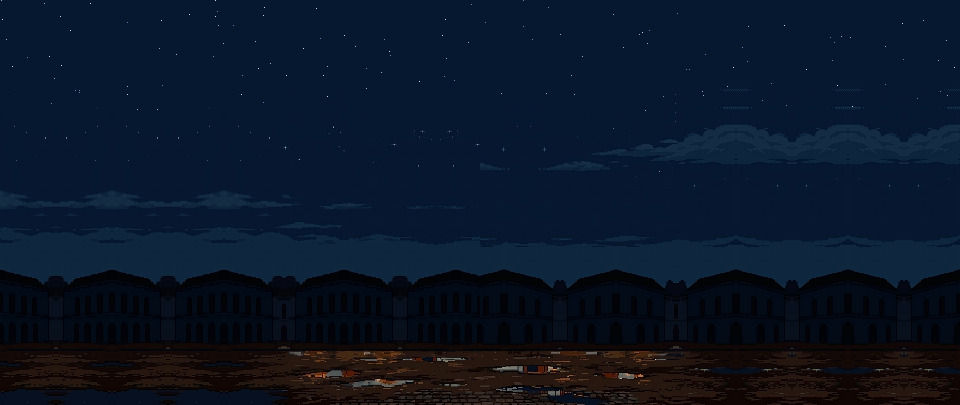
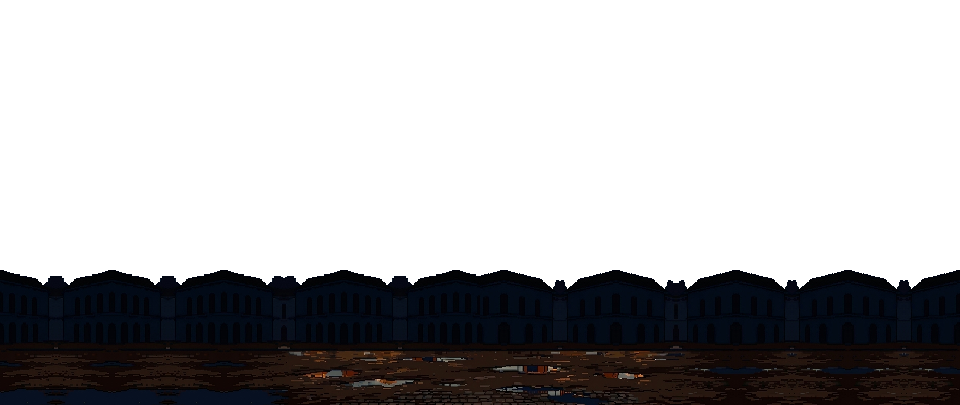
Hold the title's Cabildo still, and give it a 3D night sky behind the painted houses: stars twinkling and clouds high over the plaza, in perspective, drifting very slowly

diff --git a/src/three/sky.ts b/src/three/sky.ts
@@ -1,0 +1,119 @@
+import * as THREE from 'three';
+
+// The title's night sky, in 3D: a dome darkening from the horizon up, its stars twinkling, and a
+// layer of clouds high over the plaza, seen in perspective from down in it (big and quick
+// overhead, small and slow toward the horizon) as the wind takes them, very slowly. Drawn in the
+// flat tones the painting's sky was drawn in, its gradient in steps: a picture made of pixels.
+// Colours are written as they are to be shown (the shaders here are not converted).
+
+/** How high the clouds are, how big, how fast the wind takes them (units a second), and how far off they fade. */
+const CLOUDS = { high: 1800, size: 2600, wind: new THREE.Vector2(22, 6), fade: [18000, 60000] };
+
+const DOME_VERTEX = /* glsl */ `
+  varying vec3 vDir;
+  void main() {
+    vDir = normalize((modelMatrix * vec4(position, 0.0)).xyz);
+    gl_Position = projectionMatrix * modelViewMatrix * vec4(position, 1.0);
+  }
+`;
+
+const DOME_FRAGMENT = /* glsl */ `
+  uniform float uTime;
+  varying vec3 vDir;
+  float hash(vec2 p) { return fract(sin(dot(p, vec2(127.1, 311.7))) * 43758.5453); }
+  // Four by four ordered dither, for the gradient's steps to meet as pixel art does.
+  float bayer(vec2 p) {
+    vec2 q = mod(floor(p), 4.0);
+    int i = int(q.x + q.y * 4.0);
+    float m[16] = float[16](0., 8., 2., 10., 12., 4., 14., 6., 3., 11., 1., 9., 15., 7., 13., 5.);
+    return m[i] / 16.0 - 0.5;
+  }
+  void main() {
+    float up = clamp(vDir.y, 0.0, 1.0);
+    vec3 horizon = vec3(0.075, 0.17, 0.27), high = vec3(0.015, 0.04, 0.11);
+    // In six steps from the horizon up, dithered where they meet.
+    float k = pow(up, 0.55) * 6.0 + bayer(gl_FragCoord.xy);
+    vec3 colour = mix(horizon, high, clamp(floor(k) / 6.0, 0.0, 1.0));
+    // Stars, one pixel each, a few in a thousand, each twinkling at its own pace; fewer low down.
+    vec2 cell = floor(gl_FragCoord.xy);
+    float h = hash(cell);
+    if (h > 0.9965 - 0.002 * up) {
+      float beat = hash(cell + 7.3);
+      float shine = 0.55 + 0.45 * sin(uTime * (1.0 + 2.5 * beat) + beat * 40.0);
+      colour = mix(colour, vec3(0.85, 0.9, 1.0), shine * (0.5 + 0.5 * hash(cell + 3.1)) * smoothstep(0.02, 0.15, up));
+    }
+    gl_FragColor = vec4(colour, 1.0);
+  }
+`;
+
+const CLOUD_VERTEX = /* glsl */ `
+  varying vec3 vWorld;
+  void main() {
+    vec4 world = modelMatrix * vec4(position, 1.0);
+    vWorld = world.xyz;
+    gl_Position = projectionMatrix * viewMatrix * world;
+  }
+`;
+
+const CLOUD_FRAGMENT = /* glsl */ `
+  uniform float uTime;
+  uniform float uSize;
+  uniform vec2 uWind;
+  uniform vec2 uFade;
+  varying vec3 vWorld;
+  float hash(vec2 p) { return fract(sin(dot(p, vec2(127.1, 311.7))) * 43758.5453); }
+  float noise(vec2 p) {
+    vec2 i = floor(p), f = fract(p);
+    vec2 u = f * f * (3.0 - 2.0 * f);
+    return mix(mix(hash(i), hash(i + vec2(1, 0)), u.x), mix(hash(i + vec2(0, 1)), hash(i + vec2(1, 1)), u.x), u.y);
+  }
+  float fbm(vec2 p) {
+    float v = 0.0, a = 0.5;
+    for (int i = 0; i < 5; i++) { v += a * noise(p); p = p * 2.03 + 17.0; a *= 0.5; }
+    return v;
+  }
+  void main() {
+    vec2 p = (vWorld.xz - uWind * uTime) / uSize;
+    // Long in the wind's way, as clouds strung out by it are.
+    float d = fbm(vec2(p.x * 0.6, p.y * 1.4));
+    // Lit from above by the moon: where it thins, the top of a cloud, lighter.
+    float lit = fbm(vec2(p.x * 0.6, p.y * 1.4) + vec2(0.04, 0.08));
+    float far = length(vWorld.xz - cameraPosition.xz);
+    float fade = 1.0 - smoothstep(uFade.x, uFade.y, far);
+    if (d < 0.58 || fade < 0.02) discard;
+    // Three flat tones, as painted: the body, its lit side, its brightest edge.
+    vec3 body = vec3(0.10, 0.17, 0.27), side = vec3(0.16, 0.25, 0.37), edge = vec3(0.27, 0.37, 0.5);
+    vec3 colour = d > 0.64 ? (lit < d - 0.012 ? edge : side) : body;
+    // Far off they melt into the sky by the horizon, in steps (dithered by pixels).
+    float keep = step(fract(sin(dot(floor(gl_FragCoord.xy), vec2(12.9898, 78.233))) * 43758.5453), fade);
+    if (keep < 0.5) discard;
+    gl_FragColor = vec4(colour, 1.0);
+  }
+`;
+
+export class TitleSky {
+  readonly scene = new THREE.Scene();
+  private readonly time = { value: 0 };
+
+  constructor() {
+    const dome = new THREE.Mesh(
+      new THREE.SphereGeometry(100000, 32, 16),
+      new THREE.ShaderMaterial({ vertexShader: DOME_VERTEX, fragmentShader: DOME_FRAGMENT, uniforms: { uTime: this.time }, side: THREE.BackSide, depthWrite: false }),
+    );
+    const clouds = new THREE.Mesh(
+      new THREE.PlaneGeometry(2 * CLOUDS.fade[1], 2 * CLOUDS.fade[1]),
+      new THREE.ShaderMaterial({
+        vertexShader: CLOUD_VERTEX, fragmentShader: CLOUD_FRAGMENT, side: THREE.DoubleSide,
+        uniforms: { uTime: this.time, uSize: { value: CLOUDS.size }, uWind: { value: CLOUDS.wind }, uFade: { value: new THREE.Vector2(...CLOUDS.fade) } },
+      }),
+    );
+    clouds.rotation.x = -Math.PI / 2;
+    clouds.position.y = CLOUDS.high;
+    this.scene.add(dome, clouds);
+  }
+
+  /** Sets the moment (seconds) it is drawn at. */
+  at(t: number): void {
+    this.time.value = t;
+  }
+}

diff --git a/src/three/title.ts b/src/three/title.ts
@@ -1,22 +1,23 @@
 import * as THREE from 'three';
 import { model } from './figure';
+import { TitleSky } from './sky';
 import { UPRIGHT } from './space';
 
 // The title's Cabildo in 3D, over the painted one: the model, by night, the size and place of the
 // painting's Cabildo, rendered at the painting's own size (each of its pixels one of the
 // painting's) on a clear ground, for the title to draw as a picture between the painted sky and
-// the people crossing the plaza. Seen from in front, from down in the plaza looking up; it turns a
-// little one way and the other, slowly, so it is seen to be solid. Moonlight, and the galleries lit
-// from within, their light flickering.
+// the people crossing the plaza. Seen from in front, from down in the plaza looking up, still.
+// Moonlight, and the galleries lit from within, their light flickering. And the night sky behind,
+// seen from the same spot, drawn into a picture of its own: the painted houses stand between.
 
 /** Where the painted Cabildo stands in the painting: its front's left and right, and its foot. */
 const PAINTED = { left: 294, right: 665, foot: 346 };
 /**
  * Seen from the plaza, looking up at it: the eye a little over the ground (a share of its height),
  * looking at a point up its front (another share), through a lens this wide (degrees). Its walls
- * draw in as they rise, as a building's do seen from its foot. And how far and how slowly it turns.
+ * draw in as they rise, as a building's do seen from its foot.
  */
-const EYE = 0.08, AIM = 0.75, FOV = 38, SWAY = { angle: 0.055, pace: 0.22 };
+const EYE = 0.08, AIM = 0.75, FOV = 38;
 /** The lights: the moon, the night sky, and the warm light in each gallery. */
 const MOON = { colour: '#9db2ff', strength: 1.1 }, SKY = { top: '#24365e', bottom: '#0b0c12', strength: 0.9 };
 const GALLERY = { colour: '#ffa040', strength: 420, reach: 90, arches: 5 };
@@ -25,6 +26,11 @@ export class TitleCabildo {
   /** Its picture, copied out of the renderer's own canvas (one Phaser can read, which a WebGL one is not). */
   readonly canvas = document.createElement('canvas');
   private readonly picture: CanvasRenderingContext2D;
+  /** And the sky's, seen from where it is seen, by a camera that sees as far as the sky. */
+  readonly skyCanvas = document.createElement('canvas');
+  private readonly skyPicture: CanvasRenderingContext2D;
+  private readonly sky = new TitleSky();
+  private readonly skyCamera = new THREE.PerspectiveCamera();
   private readonly renderer: THREE.WebGLRenderer;
   private readonly scene = new THREE.Scene();
   private readonly camera: THREE.PerspectiveCamera;
@@ -41,6 +47,9 @@ export class TitleCabildo {
     this.canvas.width = width;
     this.canvas.height = height;
     this.picture = this.canvas.getContext('2d')!;
+    this.skyCanvas.width = width;
+    this.skyCanvas.height = height;
+    this.skyPicture = this.skyCanvas.getContext('2d')!;
     this.camera = new THREE.PerspectiveCamera(FOV, width / height, 1, 20000);
     this.scene.add(new THREE.HemisphereLight(SKY.top, SKY.bottom, SKY.strength));
     const moon = new THREE.DirectionalLight(MOON.colour, MOON.strength);
@@ -97,14 +106,19 @@ export class TitleCabildo {
     // Its foot's middle, in the picture's pixels, against where the painted one's was.
     const at = foot(0), x = ((at.x + 1) * w) / 2, y = ((1 - at.y) * h) / 2;
     this.camera.setViewOffset(w, h, x - (PAINTED.left + PAINTED.right) / 2, y - PAINTED.foot, w, h);
+    this.skyCamera.copy(this.camera);
+    this.skyCamera.far = 200000;
+    this.skyCamera.updateProjectionMatrix();
   }
 
   /** Draws it at a moment (seconds); nothing until the model has loaded, so the painted one shows. */
   render(t: number): void {
     if (!this.loaded) return;
-    this.building.rotation.y = SWAY.angle * Math.sin(t * SWAY.pace);
     // Lamps and torches never burn evenly.
     for (const { light, strength, beat } of this.lights) light.intensity = strength * (0.82 + 0.12 * Math.sin(t * 7.3 + beat) + 0.06 * Math.sin(t * 13.1 + beat * 2));
+    this.sky.at(t);
+    this.renderer.render(this.sky.scene, this.skyCamera);
+    this.skyPicture.drawImage(this.renderer.domElement, 0, 0);
     this.renderer.render(this.scene, this.camera);
     this.picture.clearRect(0, 0, this.canvas.width, this.canvas.height);
     this.picture.drawImage(this.renderer.domElement, 0, 0);

diff --git a/src/scenes/TitleScene.ts b/src/scenes/TitleScene.ts
@@ -6,9 +6,9 @@ import { fx } from '../fx/settings';
 import { musicWaiting, playMusic } from '../music';
 
 const W = 960, H = 405;       // the background, which is the scene's whole world
-// The plaza by night, its Cabildo painted out (tools/erase_cabildo.py): the 3D one stands there.
+// The plaza by night, its Cabildo painted out and its sky cleared (tools/erase_cabildo.py): the 3D ones show there.
 const BACK = 'titulo/plaza.png';
-const CABILDO_3D = 'titulo:cabildo3d';
+const CABILDO_3D = 'titulo:cabildo3d', SKY_3D = 'titulo:cielo3d';
 const LOGO = 'titulo/logo.png';
 const SUN = 'titulo/sol.png';
 /** The name and the sun as drawn, in pixels; their solids, raised from those drawings; how many of
@@ -58,6 +58,7 @@ export class TitleScene extends Phaser.Scene {
   /** The Cabildo in 3D, and the texture its picture is copied into each frame. */
   private cabildo?: TitleCabildo;
   private cabildoTexture?: Phaser.Textures.CanvasTexture;
+  private skyTexture?: Phaser.Textures.CanvasTexture;
   /** The name and the sun in 3D, each with the image it is shown in, once loaded. */
   private emblems: { emblem: TitleEmblem; image: Phaser.GameObjects.Image; key: string; shown: boolean; texture?: Phaser.Textures.CanvasTexture }[] = [];
   /** How much smaller than the drawing the name's and the sun's images are shown: 1, or their 3D pictures' `res`. */
@@ -90,6 +91,10 @@ export class TitleScene extends Phaser.Scene {
     if (this.textures.exists(CABILDO_3D)) this.textures.remove(CABILDO_3D);
     this.cabildoTexture = this.textures.addCanvas(CABILDO_3D, this.cabildo.canvas) ?? undefined;
     this.add.image(0, 0, CABILDO_3D).setOrigin(0, 0).setDepth(-8);
+    // And the sky in 3D behind the painted houses.
+    if (this.textures.exists(SKY_3D)) this.textures.remove(SKY_3D);
+    this.skyTexture = this.textures.addCanvas(SKY_3D, this.cabildo.skyCanvas) ?? undefined;
+    this.add.image(0, 0, SKY_3D).setOrigin(0, 0).setDepth(-11);
 
     this.halo = this.add.image(SUN_AT.x, SUN_AT.y, this.haloTexture()).setDepth(900)
       .setBlendMode(Phaser.BlendModes.ADD);
@@ -146,6 +151,7 @@ export class TitleScene extends Phaser.Scene {
     const t = time / 1000, dt = Math.min(0.05, delta / 1000);
     this.cabildo?.render(t);
     this.cabildoTexture?.refresh();
+    this.skyTexture?.refresh();
     for (const e of this.emblems) {
       e.emblem.render(t);
       if (!e.emblem.loaded) continue;

diff --git a/tools/erase_cabildo.py b/tools/erase_cabildo.py
@@ -1,11 +1,13 @@
-"""Paint the Cabildo out of the title's background, for the 3D one to stand in its place.
+"""Paint the Cabildo out of the title's background, for the 3D one to stand in its place, and
+clear its sky, for the 3D sky to show through.
 
     python3 tools/erase_cabildo.py
 
 Each box it stood in is filled from either side, mirrored: what is beside its edge goes on past
 it, so the sky, the clouds and the row of houses run on without a seam at the box's edges; the
 two halves meet in the middle, behind the 3D tower. The painting is kept; the plaza without it
-is written beside it.
+is written beside it. The sky is everything above the houses' roofline, found down each column
+as the first pixel darker than any sky (the houses are near black, the sky's darkest is not).
 """
 from PIL import Image
 
@@ -20,5 +22,13 @@ for left, top, right, bottom in BOXES:
     for y in range(top, bottom):
         for x in range(left, right):
             p[x, y] = p[left - 1 - (x - left), y] if x < middle else p[right + (right - 1 - x), y]
+# The sky, cleared.
+SKY_ENDS, DARK = 240, 45
+im = im.convert('RGBA')
+p = im.load()
+for x in range(im.width):
+    roof = next(y for y in range(SKY_ENDS, im.height) if sum(p[x, y][:3]) < DARK)
+    for y in range(roof):
+        p[x, y] = (0, 0, 0, 0)
 im.save(DST)
 print('WROTE', DST)
